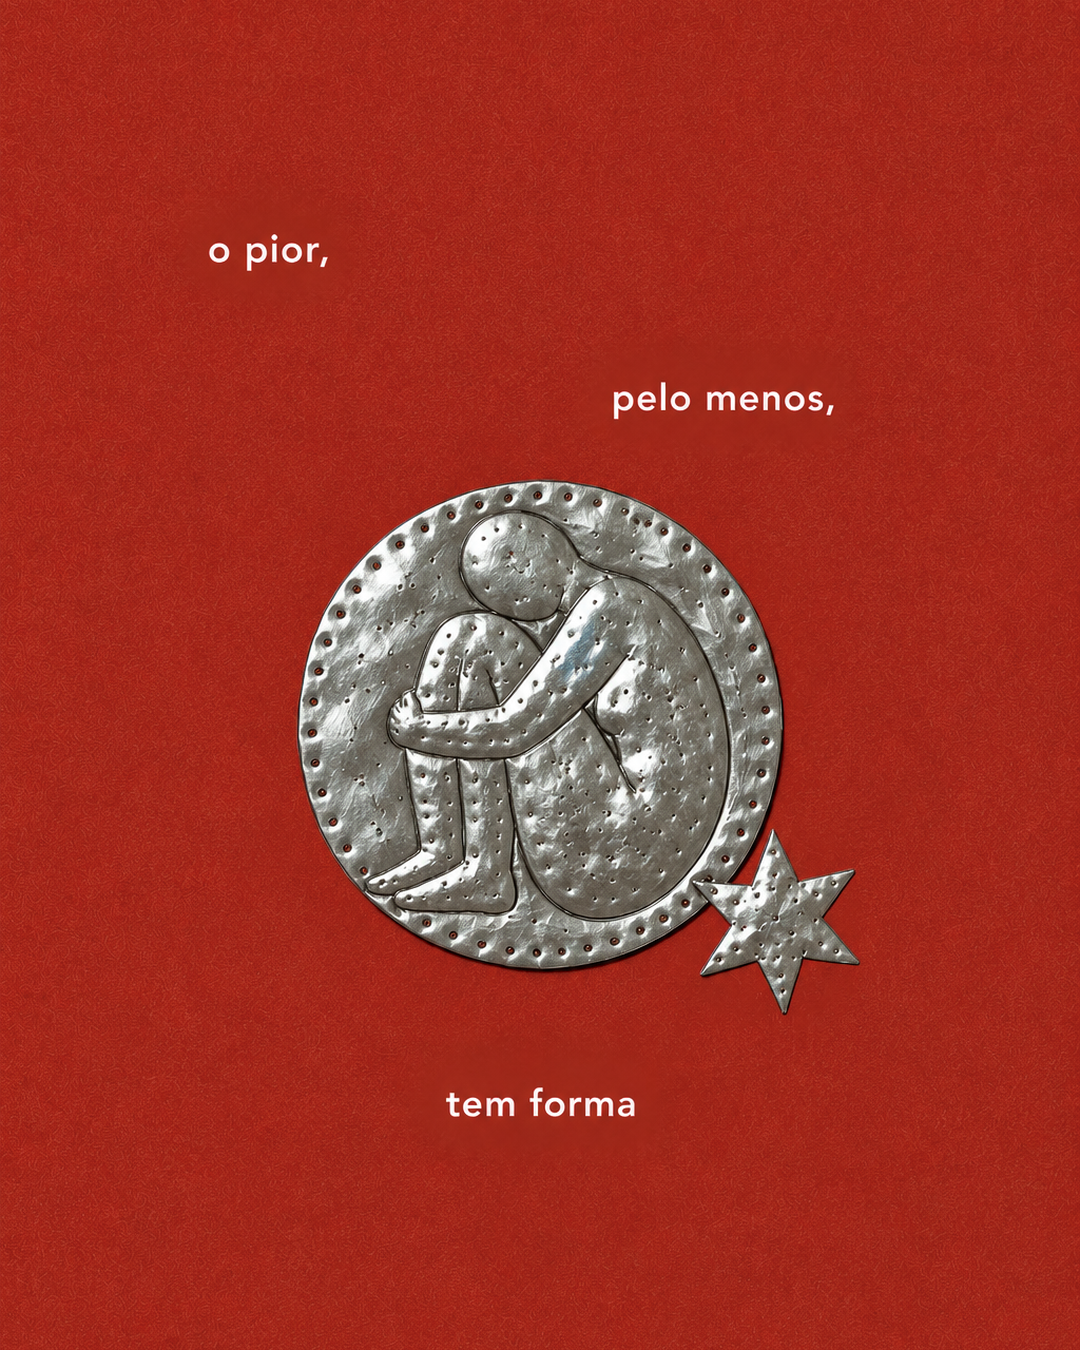
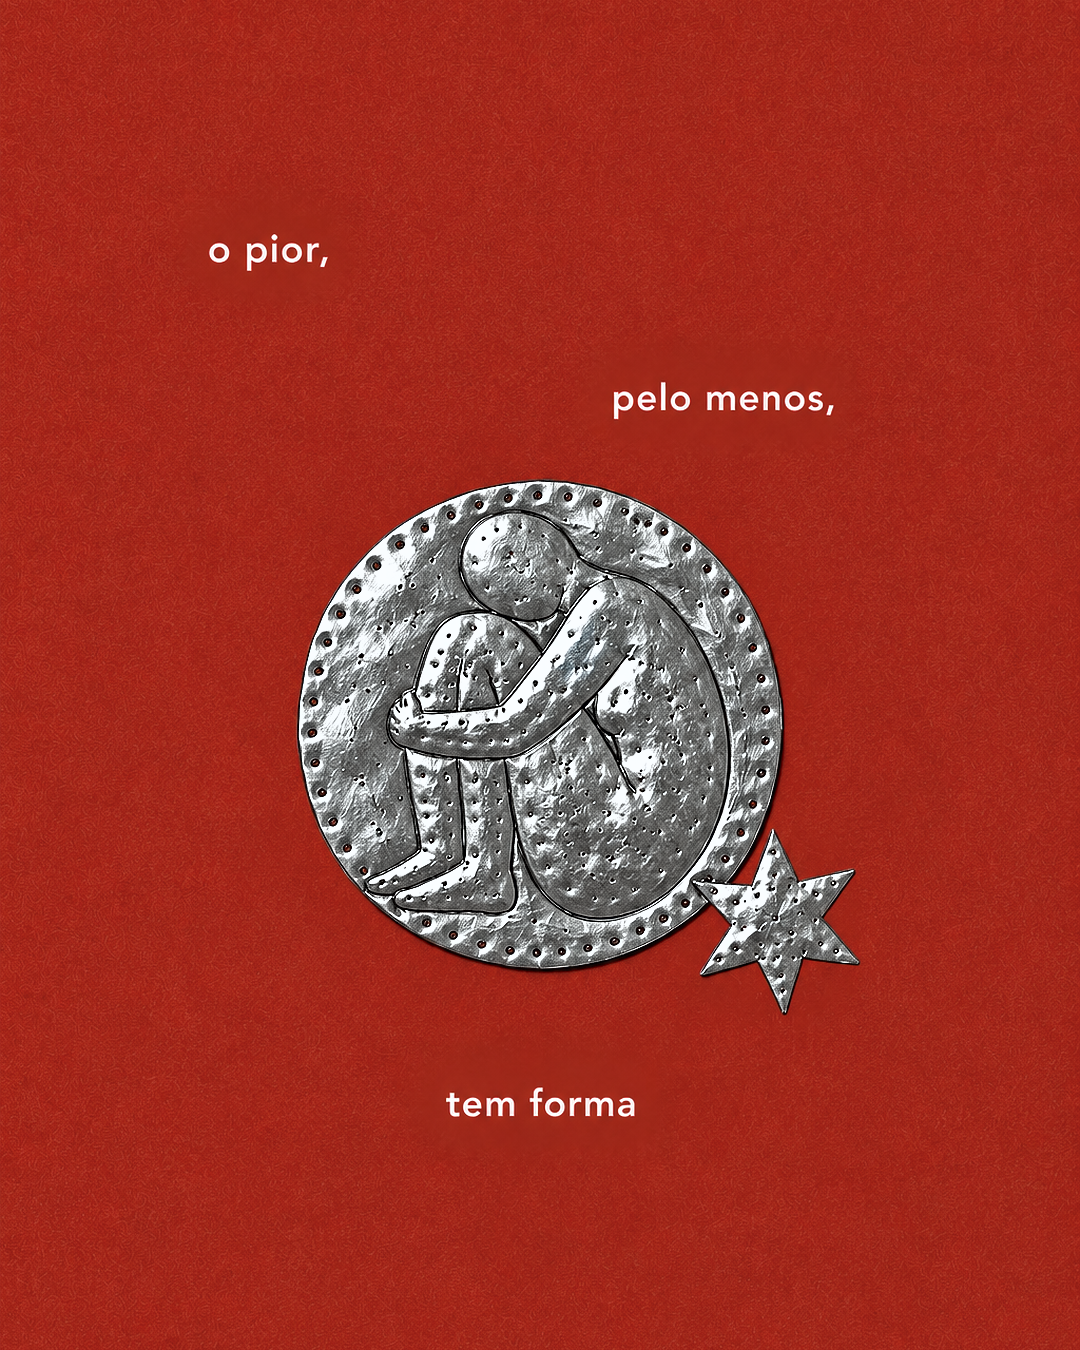
Post 7: realce do metal (nitidez, brilho, prata fria) nas seis páginas
Claude-Session: https://claude.ai/code/session_01J3SKsUX4yRG8hRjy2MrriK

Changed region(s): [[0.275, 0.3422, 0.7944, 0.7467], [0.7639, 0.6222, 0.7944, 0.6533]]

diff --git a/posts/realcar_metal.py b/posts/realcar_metal.py
@@ -1,0 +1,126 @@
+"""Realça o metal (figuras, estrelas, pontinhos) das páginas finais.
+
+Uso:
+    python3 realcar_metal.py ENTRADA SAIDA [--forca 1.0] [--mascaras]
+
+ENTRADA: pasta com as páginas finais (qualquer .png).
+SAIDA:   pasta para as páginas realçadas (mesmos nomes).
+--forca: multiplica a intensidade de todos os ajustes (0.5 = suave, 1.0 = padrão).
+--mascaras: grava também a máscara de metal e de texto, para conferência.
+
+O que faz, só dentro do metal:
+- nitidez fina (covinhas, contornos) e nitidez média (relevo);
+- curva de brilho: realces mais claros, meios-tons com mais contraste;
+- prata mais fria e neutra (tira o reflexo morno do vermelho).
+No texto: só um leve aumento de definição das bordas.
+O vermelho de fundo, o grão e as sombras ficam intactos.
+"""
+import argparse
+from pathlib import Path
+
+import cv2
+import numpy as np
+
+
+def mascaras(rgb):
+    """devolve (metal, texto) como float 0..1 do tamanho da imagem."""
+    hsv = cv2.cvtColor(rgb, cv2.COLOR_RGB2HSV)
+    s = hsv[..., 1].astype(np.float32) / 255
+    v = hsv[..., 2].astype(np.float32)
+    cinza = ((s < 0.30) & (v > 60)).astype(np.uint8)
+    n, rot, stats, _ = cv2.connectedComponentsWithStats(cinza, connectivity=8)
+    metal = np.zeros(cinza.shape, np.uint8)
+    texto = np.zeros(cinza.shape, np.uint8)
+    for i in range(1, n):
+        area = stats[i, cv2.CC_STAT_AREA]
+        if area < 6:
+            continue
+        sel = rot == i
+        vv = v[sel]
+        branco = (vv > 235).mean()
+        # letras: brancas e chapadas; metal: tons de cinza variados
+        if vv.mean() > 222 and branco > 0.45 and area < 4000:
+            texto[sel] = 1
+        else:
+            metal[sel] = 1
+    # preenche os vincos escuros e reflexos dentro de cada peça, mas deixa de fora
+    # o vermelho que aparece por furos e vãos (saturado como o fundo)
+    contornos, _ = cv2.findContours(metal, cv2.RETR_EXTERNAL, cv2.CHAIN_APPROX_NONE)
+    cheio = np.zeros_like(metal)
+    cv2.drawContours(cheio, contornos, -1, 1, thickness=cv2.FILLED)
+    vermelho = s > 0.55
+    metal = (cheio.astype(bool) & ~vermelho & ~texto.astype(bool)).astype(np.uint8)
+    # inclui a borda do metal (mistura com o vermelho) e suaviza a transição
+    k = cv2.getStructuringElement(cv2.MORPH_ELLIPSE, (3, 3))
+    metal = cv2.dilate(metal, k, iterations=1)
+    texto_d = cv2.dilate(texto, k, iterations=1)
+    metal_f = cv2.GaussianBlur(metal.astype(np.float32), (0, 0), 0.8)
+    texto_f = cv2.GaussianBlur(texto_d.astype(np.float32), (0, 0), 0.6)
+    metal_f *= (1 - texto_f)  # nunca realçar letra como metal
+    return np.clip(metal_f, 0, 1), np.clip(texto_f, 0, 1)
+
+
+def realcar_metal(rgb, forca=1.0):
+    lab = cv2.cvtColor(rgb.astype(np.float32) / 255, cv2.COLOR_RGB2LAB)
+    L, a, b = cv2.split(lab)  # L 0..100
+    # nitidez média (relevo / "clareza") e fina (covinhas, bordas)
+    L = L + 0.45 * forca * (L - cv2.GaussianBlur(L, (0, 0), 6))
+    L = L + 0.90 * forca * (L - cv2.GaussianBlur(L, (0, 0), 1.0))
+    # curva de brilho: contraste nos meios-tons e realces mais abertos
+    x = np.clip(L / 100, 0, 1)
+    s_curve = x + 0.18 * forca * (x - 0.5) * (1 - np.abs(2 * x - 1))  # contraste suave
+    realce = np.clip((x - 0.62) / 0.38, 0, 1)
+    x2 = s_curve + 0.08 * forca * realce ** 1.5  # abre os brilhos
+    # ombro suave: o brilho sobe sem estourar (mantém textura nos reflexos)
+    k = 0.88
+    acima = x2 > k
+    x2[acima] = k + (1 - k) * np.tanh((x2[acima] - k) / (1 - k))
+    L = np.clip(x2, 0, 1) * 100
+    # prata fria e neutra
+    a = a * (1 - 0.55 * min(forca, 1.0)) - 0.4 * forca
+    b = b * (1 - 0.55 * min(forca, 1.0)) - 2.2 * forca
+    out = cv2.cvtColor(cv2.merge([L, a, b]), cv2.COLOR_LAB2RGB)
+    return np.clip(out * 255, 0, 255)
+
+
+def realcar_texto(rgb, forca=1.0):
+    f = rgb.astype(np.float32)
+    borr = cv2.GaussianBlur(f, (0, 0), 0.7)
+    return np.clip(f + 0.55 * forca * (f - borr), 0, 255)
+
+
+def processar(caminho, saida, forca, salvar_mascaras):
+    bgr = cv2.imread(str(caminho), cv2.IMREAD_COLOR)
+    rgb = cv2.cvtColor(bgr, cv2.COLOR_BGR2RGB)
+    m_metal, m_texto = mascaras(rgb)
+    met = realcar_metal(rgb, forca)
+    txt = realcar_texto(rgb, forca)
+    base = rgb.astype(np.float32)
+    out = base * (1 - m_metal[..., None]) + met * m_metal[..., None]
+    out = out * (1 - m_texto[..., None]) + txt * m_texto[..., None]
+    out = np.clip(out + 0.5, 0, 255).astype(np.uint8)
+    cv2.imwrite(str(saida / caminho.name), cv2.cvtColor(out, cv2.COLOR_RGB2BGR), [cv2.IMWRITE_PNG_COMPRESSION, 6])
+    if salvar_mascaras:
+        vis = np.zeros_like(rgb)
+        vis[..., 1] = (m_metal * 255).astype(np.uint8)
+        vis[..., 0] = (m_texto * 255).astype(np.uint8)
+        cv2.imwrite(str(saida / f"_mascara_{caminho.stem}.png"), cv2.cvtColor(vis, cv2.COLOR_RGB2BGR))
+
+
+def main():
+    ap = argparse.ArgumentParser()
+    ap.add_argument("entrada", type=Path)
+    ap.add_argument("saida", type=Path)
+    ap.add_argument("--forca", type=float, default=1.0)
+    ap.add_argument("--mascaras", action="store_true")
+    a = ap.parse_args()
+    a.saida.mkdir(parents=True, exist_ok=True)
+    for p in sorted(a.entrada.glob("*.png")):
+        if p.name.startswith("_") or p.name.startswith("folha"):
+            continue
+        processar(p, a.saida, a.forca, a.mascaras)
+        print("ok", p.name)
+
+
+if __name__ == "__main__":
+    main()
